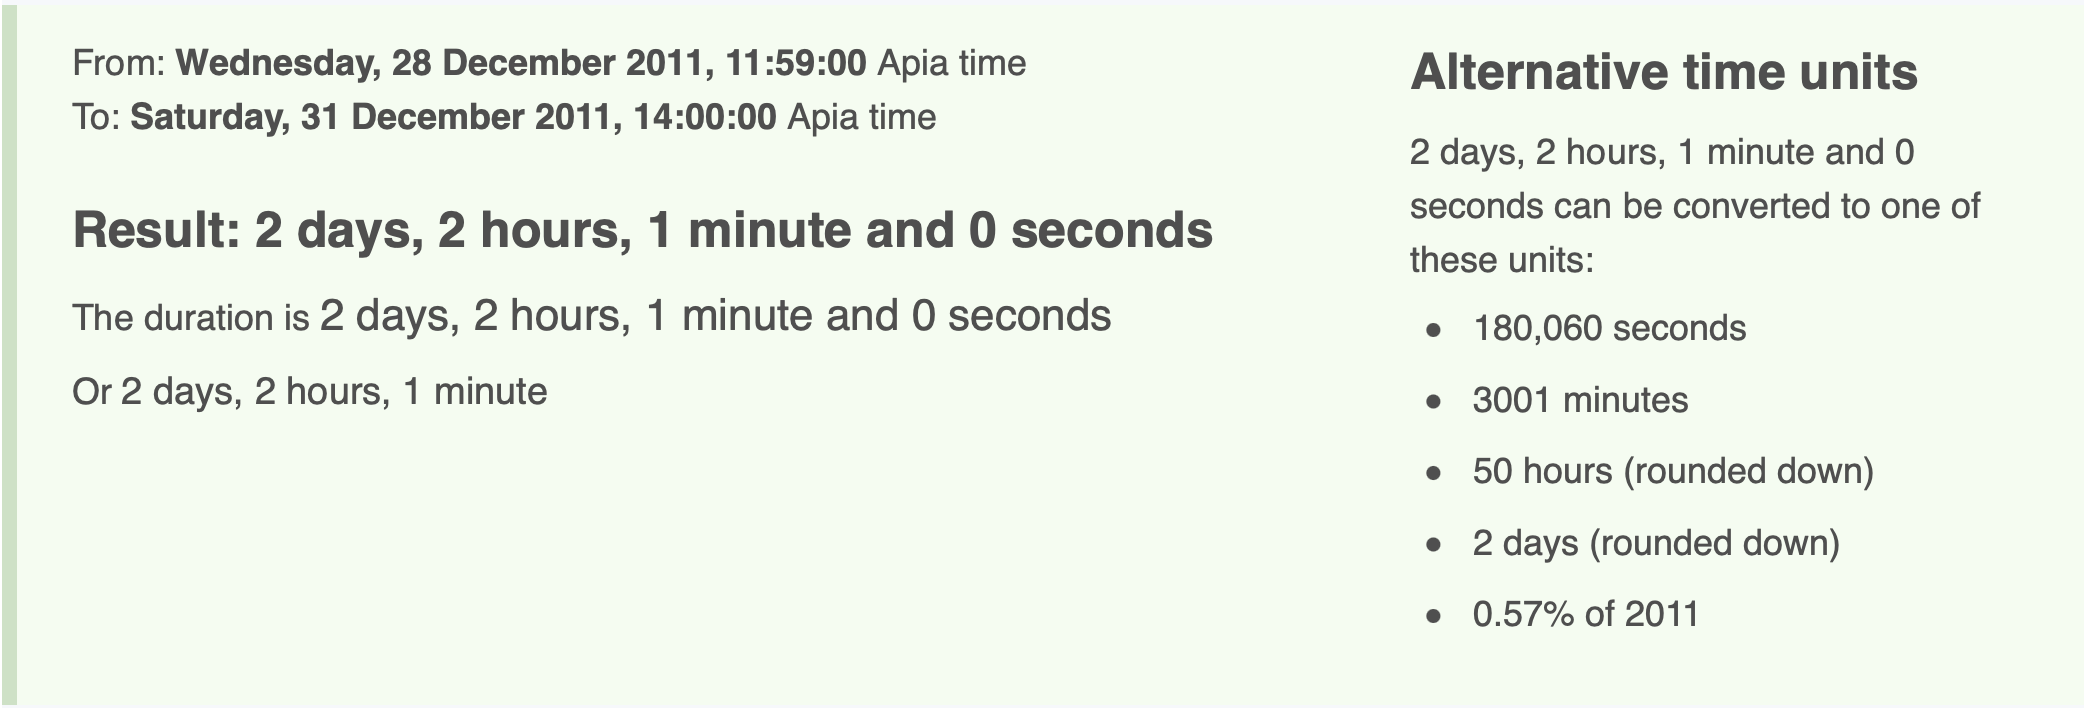
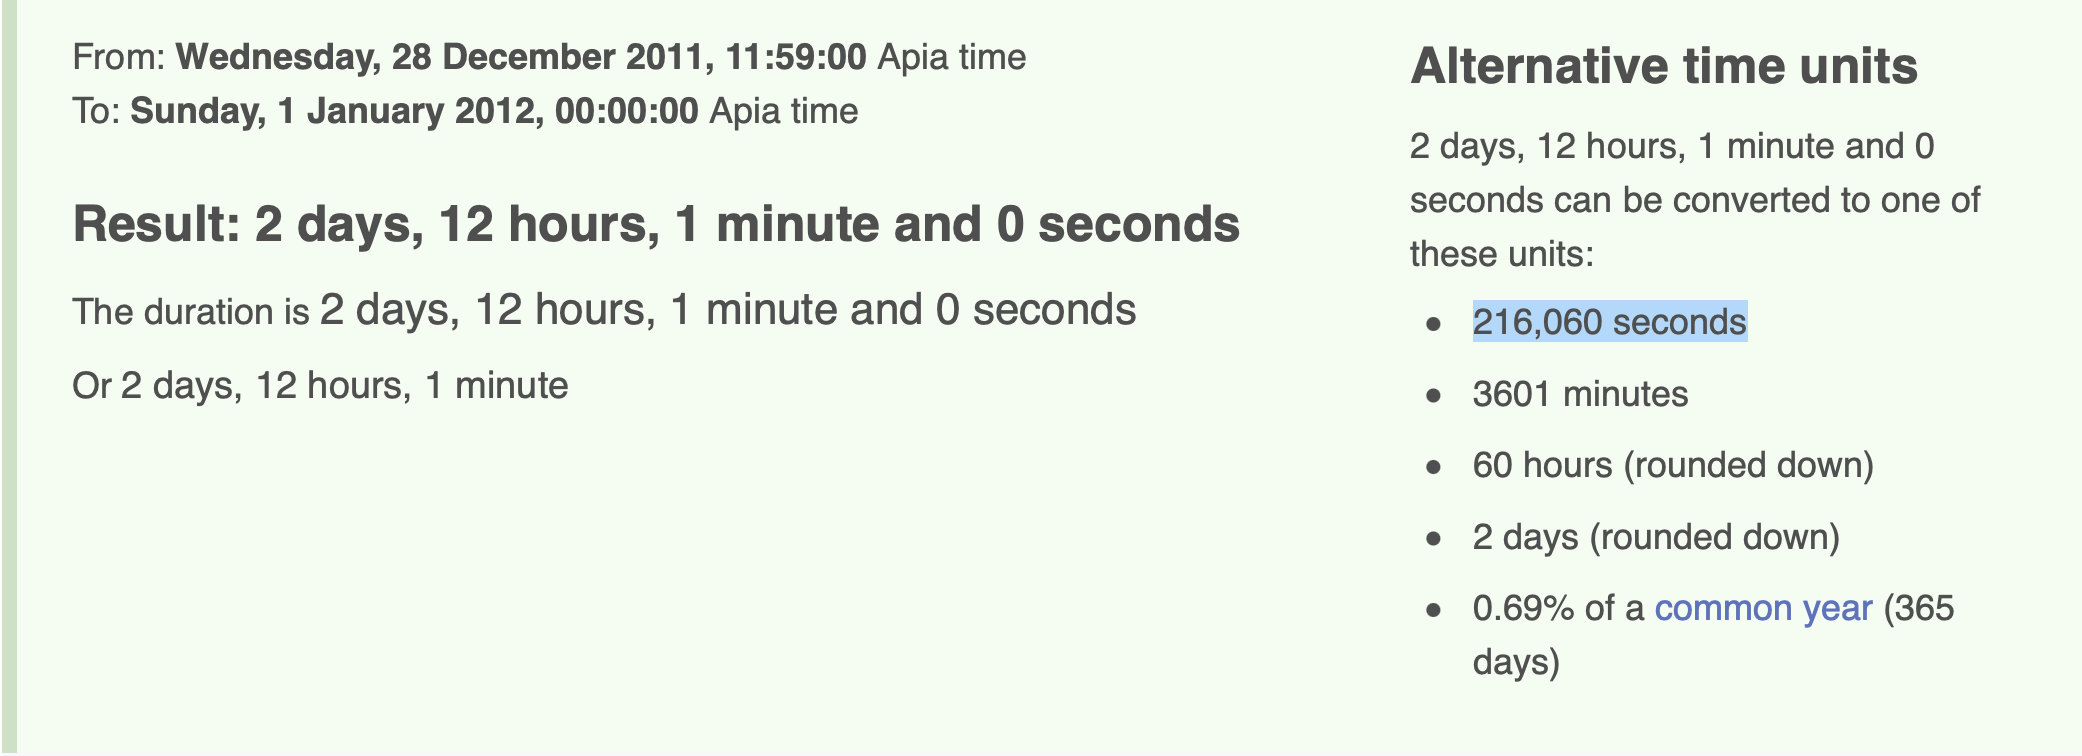
whenami imgs fix

diff --git a/2022-NahamCon-CTF/Whenami.md b/2022-NahamCon-CTF/Whenami.md
@@ -54,18 +54,18 @@ Some time has passed since I landed, and on December 30th, 12PM local time, I to
 
 I chose to convert all timings to Samoa time from this point to avoid confusion. December 30th, 12PM (GMT-11) becomes December 31st 1PM (GMT+14)
 
-![](images/whenami-calc3.png)
+![](images/whenami-timecalc.png)
 
 If you're wondering why its GMT+14 instead of GMT+13, this is due to Samoa observing Daylight Savings Time around that time in 2011, as denoted by the asterisk.
 
 After adding one hour of the flight duration, the current date is now December 31st, 2PM or 180,060 seconds since the start date.
 
-![](images/whenami-calc4.png)
+![](images/whenami-calc3.png)
 
 `It's been 10 hours since I landed on my most recent flight - how many seconds have passed since I first looked at my watch?`
 
 For the last part of this challenge, we add 10 hours to December 31st, 2PM, making the end date January 1st 2012, 12 midnight (HAPPY NEW YEAR!). The final count, and the answer to this challenge, is 216,060 seconds.
 
-![](images/whenami-calc5.png)
+![](images/whenami-calc4.png)
 
 Flag: `flag{216060}`
